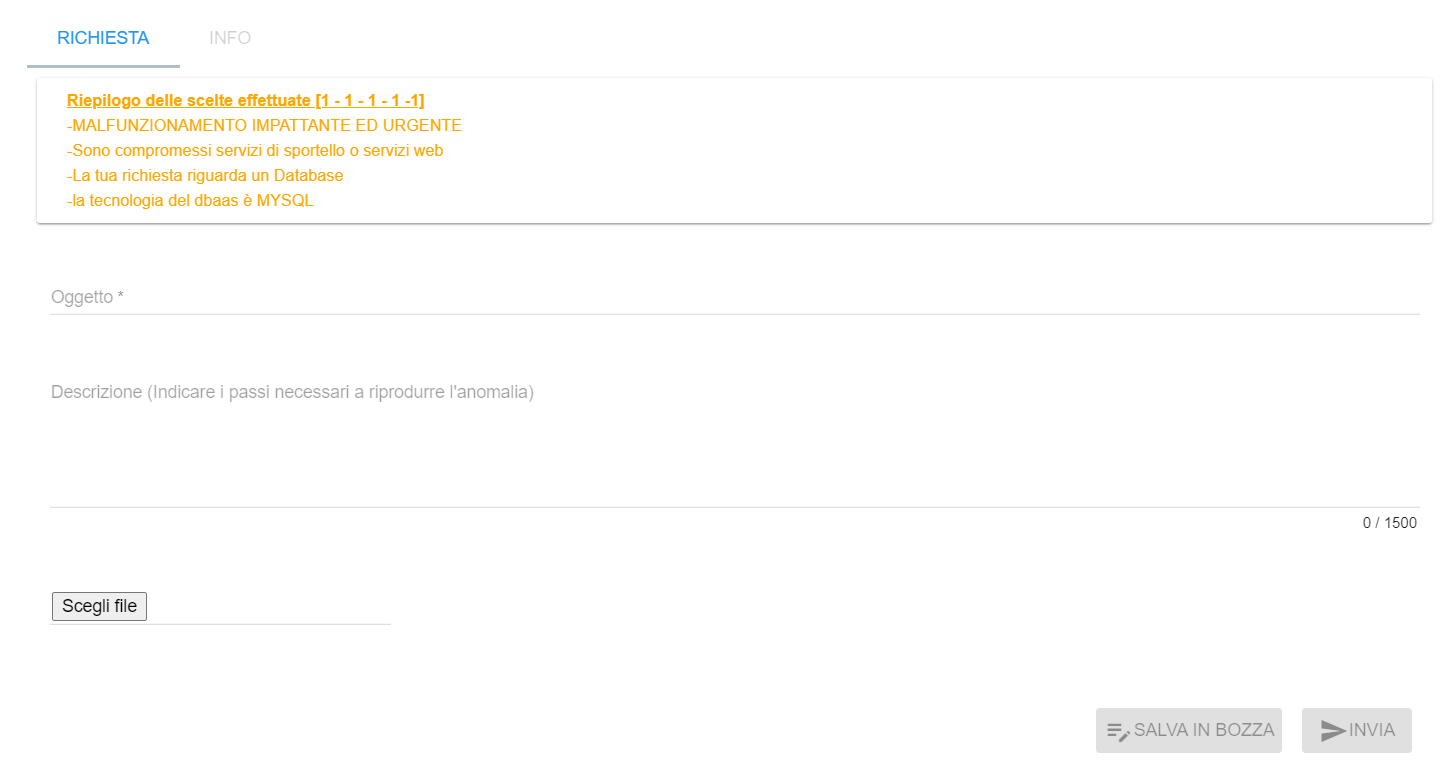
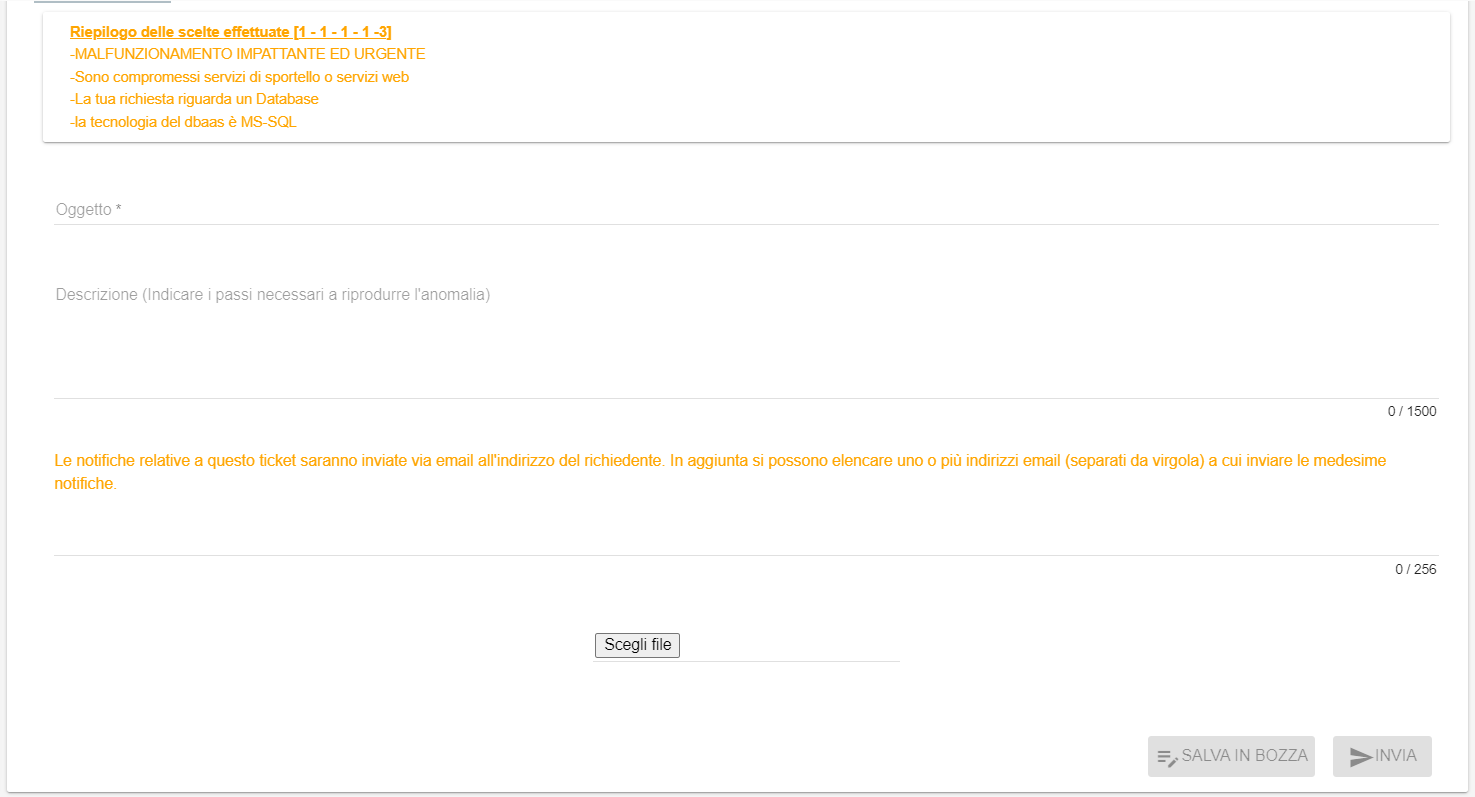
240305commit.1

diff --git a/docs/Come_fare_per/06.0_Ricerca_ruolo_fra_accrediti_utente.rst b/docs/Come_fare_per/06.0_Ricerca_ruolo_fra_accrediti_utente.rst
@@ -1,0 +1,27 @@
+
+**Ricerca ruolo fra gli accrediti utente (master di account e amministratore di backoffice)**
+#############################################################################################
+
+La funzione **Ricerca ruoli per testo** è attivabile dalla destra del ruolo attualmente utilizzato, individuando e cliccando sulla seguente icona "Ricerca ruoli per testo"
+
+  .. image:: img/06_Ricerca_ruoli1.png
+
+|
+
+Dalla finestra che compare
+
+  .. image:: img/06_Ricerca_ruoli2.png
+
+|
+
+Digitare il nome o parte del nome dell'account da ricercarsi fra quelli accreditati all'utenza di accesso al portale
+
+  .. image:: img/06_Ricerca_ruoli3.png
+
+|
+
+Cliccarci sopra per assumere tale ruolo
+
+  .. image:: img/06_Ricerca_ruoli4.png
+
+|

diff --git a/docs/Come_fare_per/100.35_Creare_nuovo_ticket.rst b/docs/Come_fare_per/100.35_Creare_nuovo_ticket.rst
@@ -19,8 +19,15 @@ La voce in alto "**Riepilogo delle scelte effettuate**" riporta il riassunto del
 
 .. image:: img/100.35_Form_Nuovo_TicketDX.png
 
-Inserire l'oggetto, la descrizione e l'eventuale allegato (ad esempio lo screenshot di un eventuale messaggio di errore) attraverso il tasto in basso a 
-destra "**Scegli file**":
+Inserire:
+
+●	l'oggetto
+
+●	la descrizione
+
+●	uno o più eventuali indirizzi di mail a cui inviare le notifiche relative a tale ticket
+
+●	l'eventuale allegato (ad esempio lo screenshot di un eventuale messaggio di errore) attraverso il tasto in basso a  destra "**Scegli file**":
 
 .. image:: img/100.35_FormOK_Nuovo_TicketDX.png
 

diff --git a/docs/Come_fare_per/40.1_Consultare_costi_e_consumi.rst b/docs/Come_fare_per/40.1_Consultare_costi_e_consumi.rst
@@ -49,10 +49,8 @@ sotto la label **Gestione Divisione**
 .. image:: img/CostiConsumi_innesco2div.png
 
 A seguito del clic su **Costi e Consumi**, il sistema presenterà nella
-parte destra del video i **Costi non rendicontati**
-e l'**Andamento dei Costi**.
-Il grafico e la tabella, fanno riferimento al **Consumo** e al **Costo**
-dei servizi acquistati e istanziati nell'account.
+parte destra del video i **Costi non rendicontati**, l'**Andamento dei Costi** e i **Costi suddivisi per account**.
+Il grafico e la tabella, fanno riferimento al **Consumo** e al **Costo** dei servizi acquistati e istanziati nella division.
 
 .. image:: img/CostiConsumi_Grafici.png
 

diff --git a/docs/Come_fare_per/05.3_Verificare_Accrediti_Utente.rst b/docs/Come_fare_per/05.3_Verificare_Accrediti_Utente.rst
@@ -1,7 +1,7 @@
 .. _Verificare_Accredi_Utente:
 
-**Verificare Accrediti dell'Utente (master di account e amministratore di backoffice)**
-#######################################################################################
+**Verificare ruoli Accrediti all'Utente (master di account e amministratore di backoffice)**
+############################################################################################
 
 La funzione **Accreditamento di utente** è attivabile attraverso due modalità, a seconda se si utilizza il ruolo **Amministratore di Backoffice** 
 oppure il ruolo **Master di account**

diff --git a/docs/Come_fare_per/05.2_Accreditare_Utente.rst b/docs/Come_fare_per/05.2_Accreditare_Utente.rst
@@ -1,7 +1,7 @@
 .. _Accreditare_Utente:
 
-**Accreditare Utente (master di account e amministratore di backoffice)**
-#########################################################################
+**Accreditare Utente con ruolo specifico (master di account e amministratore di backoffice)**
+#############################################################################################
 
 La funzione **Accreditamento di utente** è attivabile attraverso due modalità, a seconda se si utilizza il ruolo **Amministratore di Backoffice** 
 oppure il ruolo **Master di account**

diff --git a/docs/Come_fare_per/index_come_fare_per.rst b/docs/Come_fare_per/index_come_fare_per.rst
@@ -12,6 +12,7 @@ ad interagire con la piattaforma, attraverso il portale.
    04_Master_di_Division.rst
    05.0_Creare_Accreditare_Utente.rst
    05.2_Accreditare_Utente.rst
+   06.0_Ricerca_ruolo_fra_accrediti_utente.rst
    07.0_Creare_Account.rst
    08.0_Lavorare_Budget_Alert.rst
    09.0_Forecasting.rst
